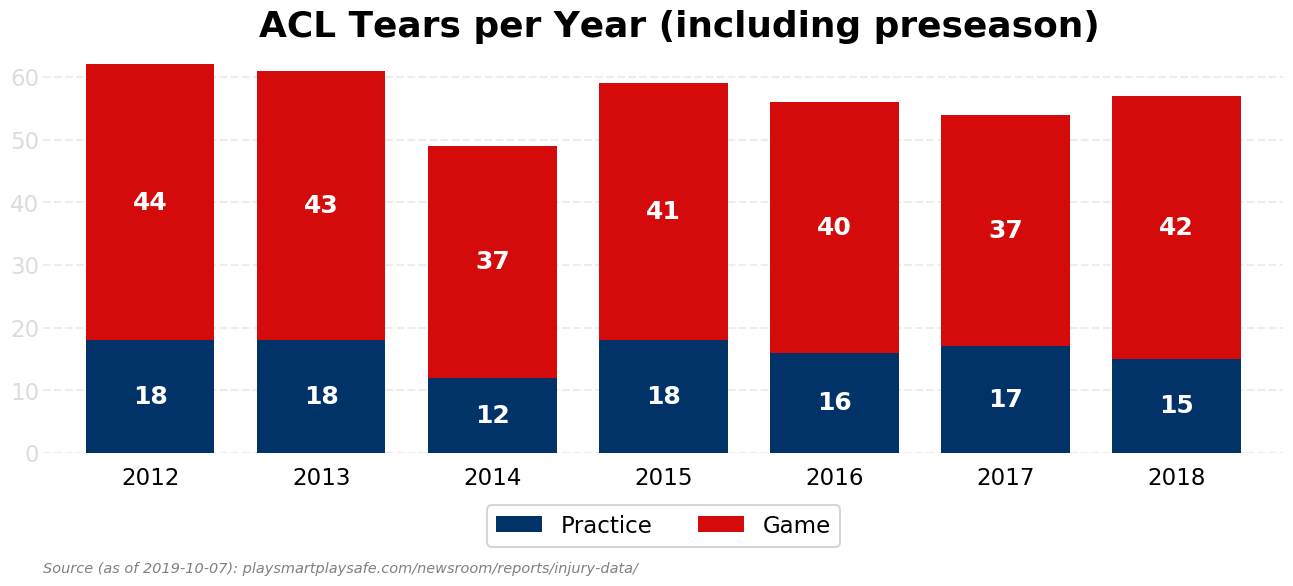
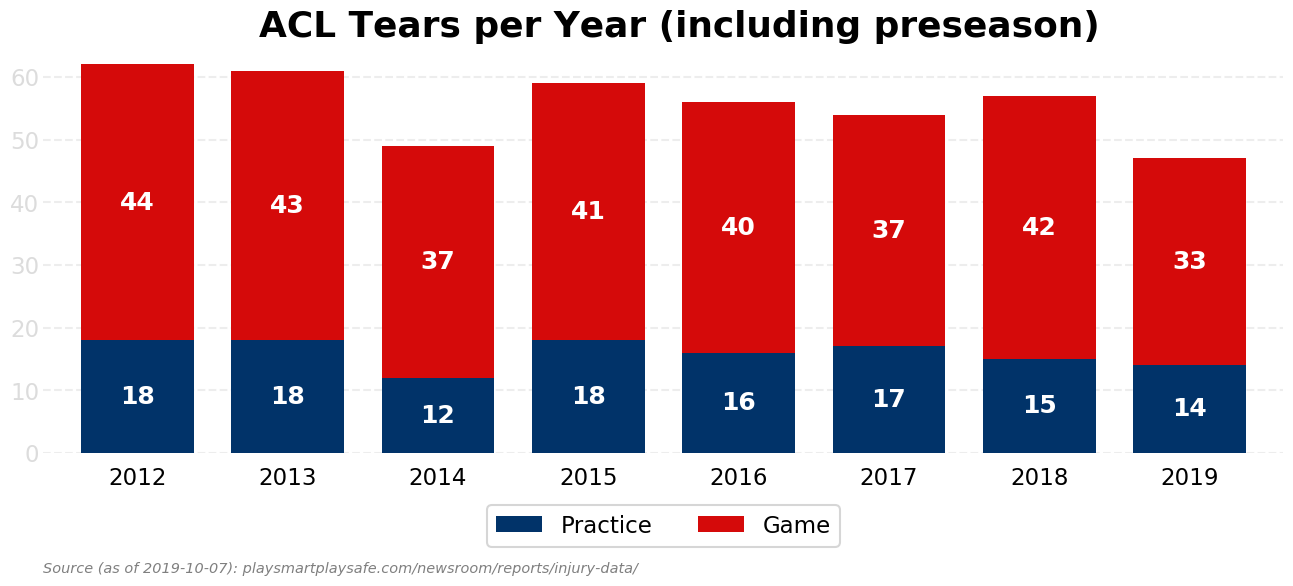
Update NFL injury graphs to 2019

diff --git a/content/Graphs/2019-10-07 NFL Injury Data.md b/content/Graphs/2019-10-07 NFL Injury Data.md
@@ -7,6 +7,8 @@ code: ""
 type: "Graphs"
 ---
 
+*Update 2020-02-16: Graphs updated with 2019 data*
+
 # What?
 The NFL puts out injury data each year, covering three areas. The cover image
 for this post provides the headline stat of concussions, but information is also
